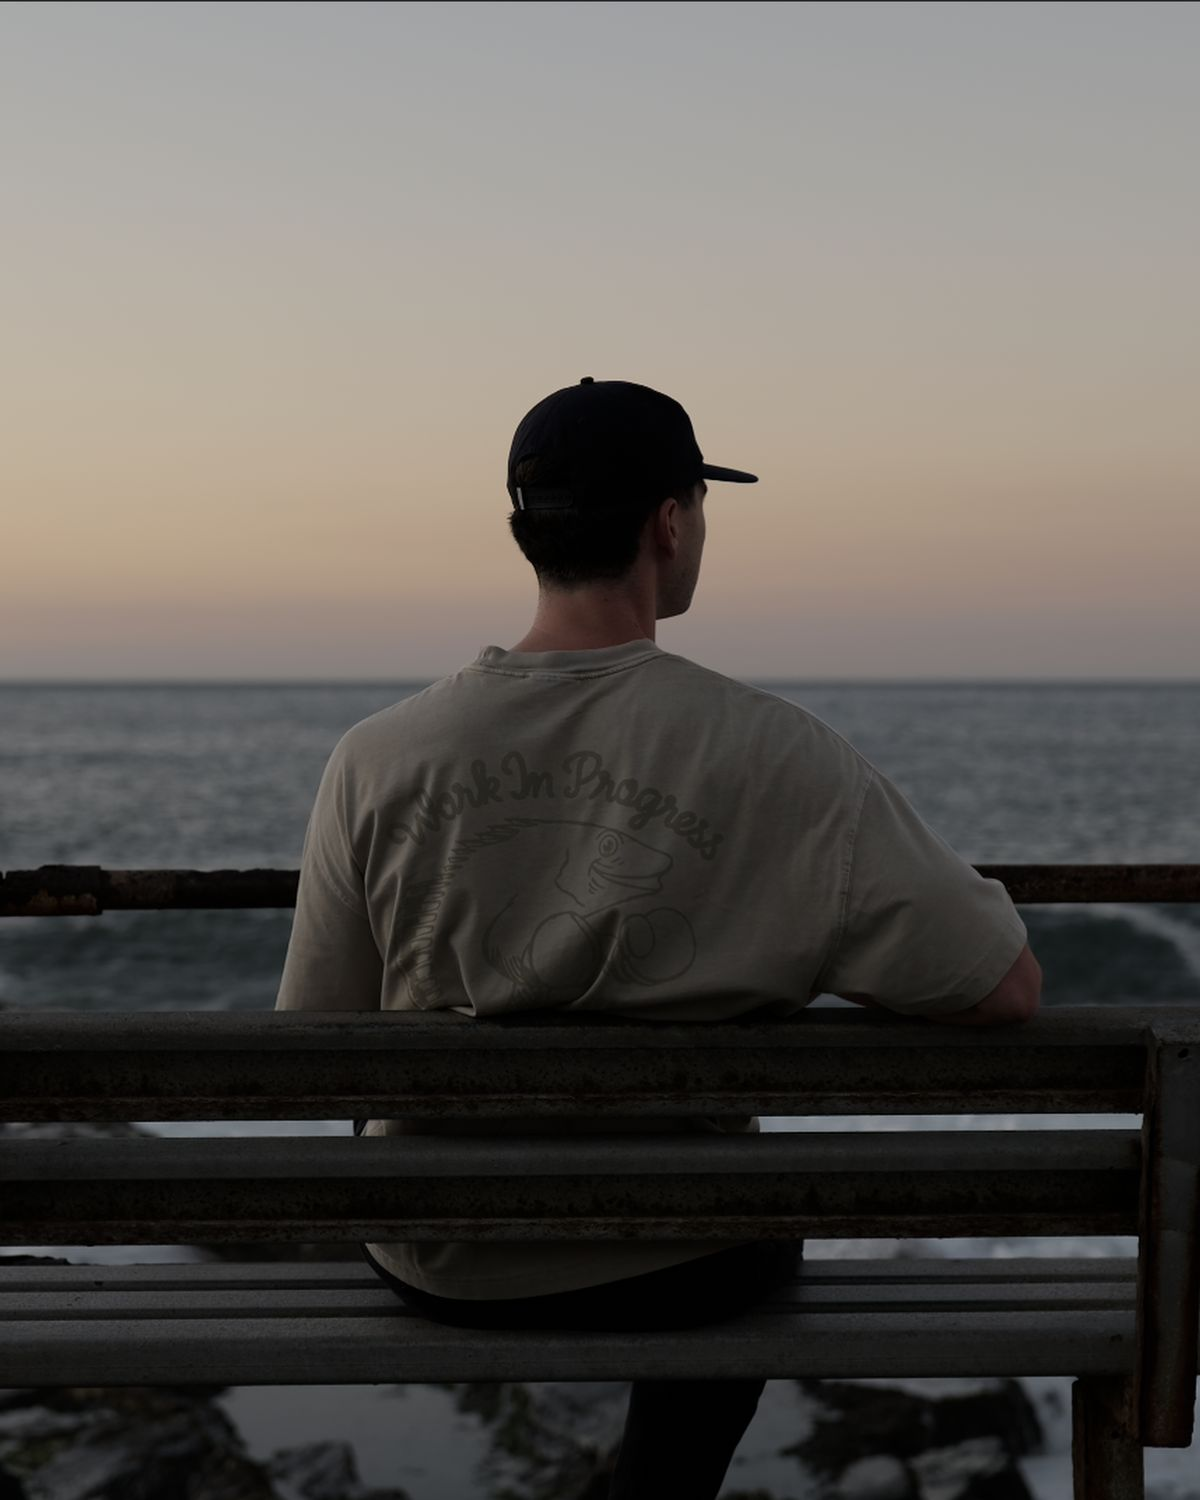
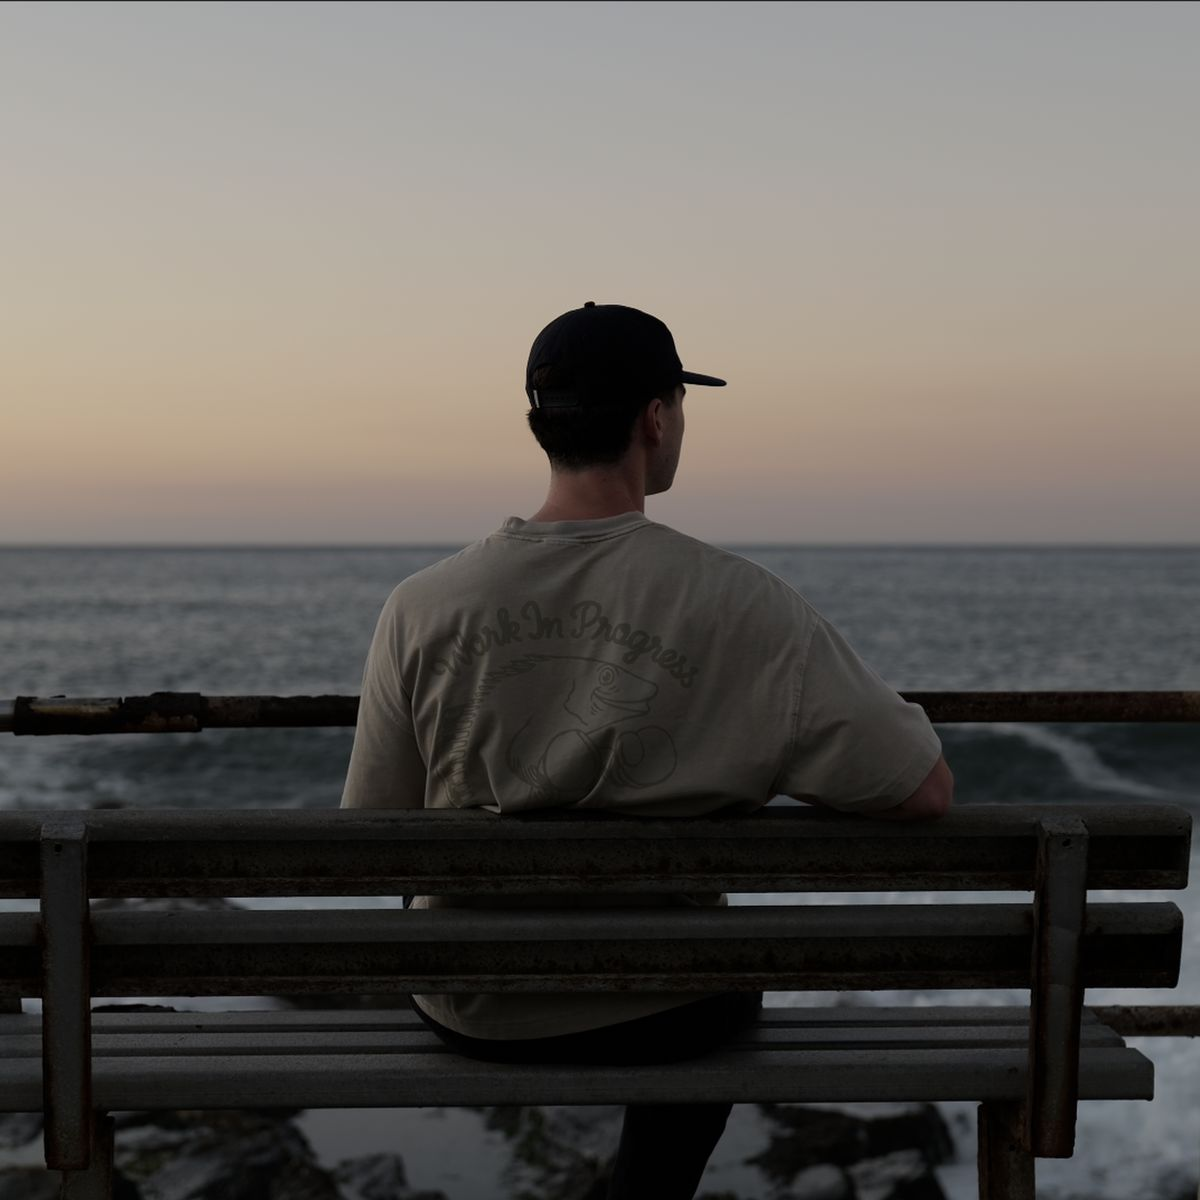
Fix founder photo height, use square crops
Claude-Session: https://claude.ai/code/session_01Q6Wf5Bmh2vJ65JTNHqqnU3

diff --git a/index.html b/index.html
@@ -175,7 +175,7 @@ textarea:focus{outline:none;border-color:var(--black);background:var(--white)}
 .about-lead{font-size:clamp(18px,1.8vw,22px);color:var(--g3);max-width:56ch;margin:0 0 clamp(28px,4vw,48px);line-height:1.5}
 .founders{display:grid;grid-template-columns:repeat(2,minmax(0,1fr));gap:clamp(16px,3vw,32px)}
 .founder{margin:0}
-.founder img{display:block;width:100%;aspect-ratio:4/5;object-fit:cover;border-radius:6px;background:var(--off)}
+.founder img{display:block;width:100%;height:auto;aspect-ratio:1/1;object-fit:cover;border-radius:6px;background:var(--off)}
 .founder figcaption{padding-top:16px}
 .founder b{font:700 clamp(24px,2.4vw,30px)/1.1 "Inter Tight",Inter,sans-serif;letter-spacing:-.02em}
 .founder p{margin:8px 0 0;color:var(--g3);max-width:46ch}
@@ -335,14 +335,14 @@ textarea:focus{outline:none;border-color:var(--black);background:var(--white)}
       <p class="lead about-lead">We zijn Tom en Steffen. We bouwen commns omdat we het zelf hebben meegemaakt: je groeit, je kiest bewuster, en ineens past je oude omgeving niet meer helemaal.</p>
       <div class="founders">
         <figure class="founder">
-          <img src="img/founder-1.jpg" alt="Tom" loading="lazy" width="1200" height="1500">
+          <img src="img/founder-1.jpg" alt="Tom" loading="lazy" width="1200" height="1200">
           <figcaption>
             <b>Tom</b>
             <p>“Ik ben verslaafd aan groei: zowel persoonlijk als zakelijk. Maar ik heb ervaren hoe eenzaam dat kan zijn, daar willen we verandering in brengen. Want het hoeft niet alleen.”</p>
           </figcaption>
         </figure>
         <figure class="founder">
-          <img src="img/founder-2.jpg" alt="Steffen" loading="lazy" width="1200" height="1500">
+          <img src="img/founder-2.jpg" alt="Steffen" loading="lazy" width="1200" height="1200">
           <figcaption>
             <b>Steffen</b>
           </figcaption>
